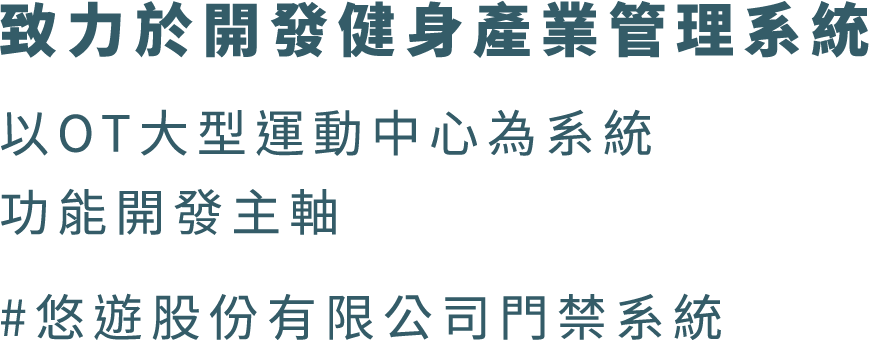
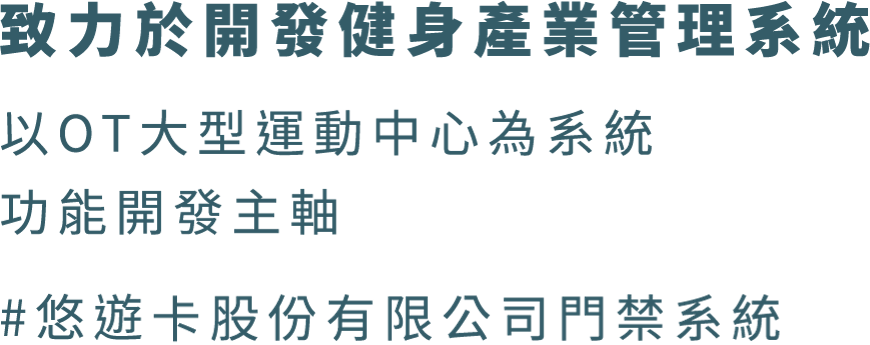
20210616 璿恩官網新增中心人流、修改錯誤文字 小柒

diff --git a/SportXuanen/css/indexstyle.css b/SportXuanen/css/indexstyle.css
@@ -755,19 +755,19 @@ img {
     }
 
     .mobile_aboutus02_txt1 {
-        transform: scale(0.6);
-        top:65%;
+        transform: scale(0.5);
+        top:67%;
         left: -20%;
     }
 
     .mobile_aboutus02_txt2 {
-        transform: scale(0.6);
-        top: 65%;
+        transform: scale(0.5);
+        top: 64%;
         left: -15%;
     }
 
     .mobile_aboutus02_img {
-        transform: scale(0.6);
+        transform: scale(0.5);
         top: -50px;
         left: -80px;
         margin: -10% auto;
@@ -858,15 +858,15 @@ img {
     }
 
     .mobile_aboutus02_txt1 {
-        transform: scale(0.5);
+        transform: scale(0.4);
     }
 
     .mobile_aboutus02_txt2 {
-        transform: scale(0.5);
+        transform: scale(0.4);
     }
 
     .mobile_aboutus02_img {
-        transform: scale(0.5);
+        transform: scale(0.4);
         margin:-25% auto;
         left:-30%;
     }
@@ -939,17 +939,17 @@ img {
     }
 
     .mobile_aboutus02_txt1 {
-        transform: scale(0.5);
+        transform: scale(0.4);
         left: -20%;
     }
 
     .mobile_aboutus02_txt2 {
-        transform: scale(0.5);
+        transform: scale(0.4);
         left: -20%;
     }
 
     .mobile_aboutus02_img {
-        transform: scale(0.5);
+        transform: scale(0.4);
         left:-35%;
         margin: -25% auto;
     }
@@ -1058,18 +1058,18 @@ img {
     }
 
     .mobile_aboutus02_txt1 {
-        transform: scale(0.5);
+        transform: scale(0.4);
         left: -30%;
     }
 
     .mobile_aboutus02_txt2 {
-        transform: scale(0.5);
+        transform: scale(0.4);
         top:70%;
         left: -20%;
     }
 
     .mobile_aboutus02_img {
-        transform: scale(0.5);
+        transform: scale(0.4);
         left: -45%;
         margin: -30% auto;
     }
